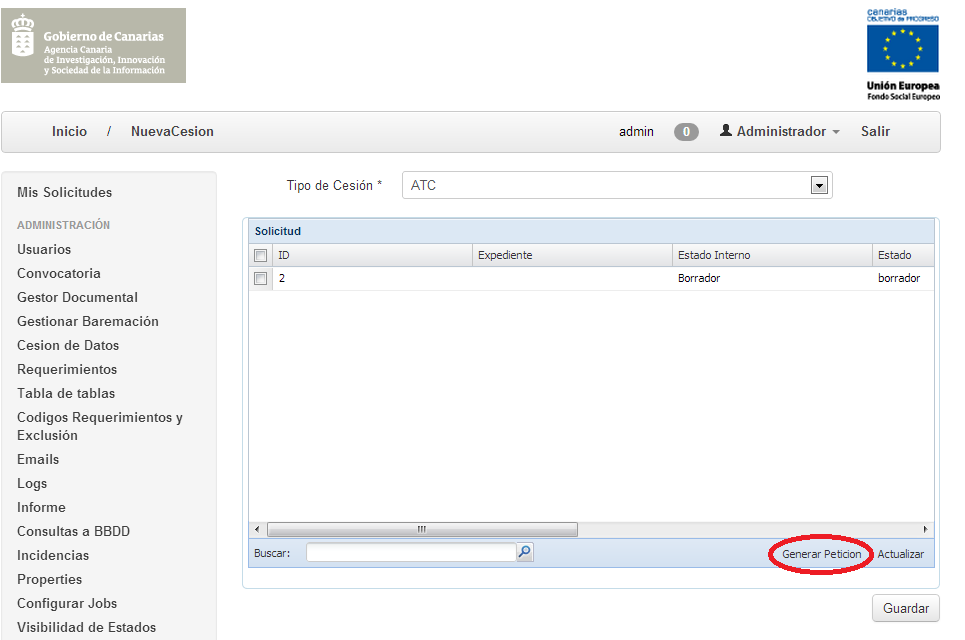
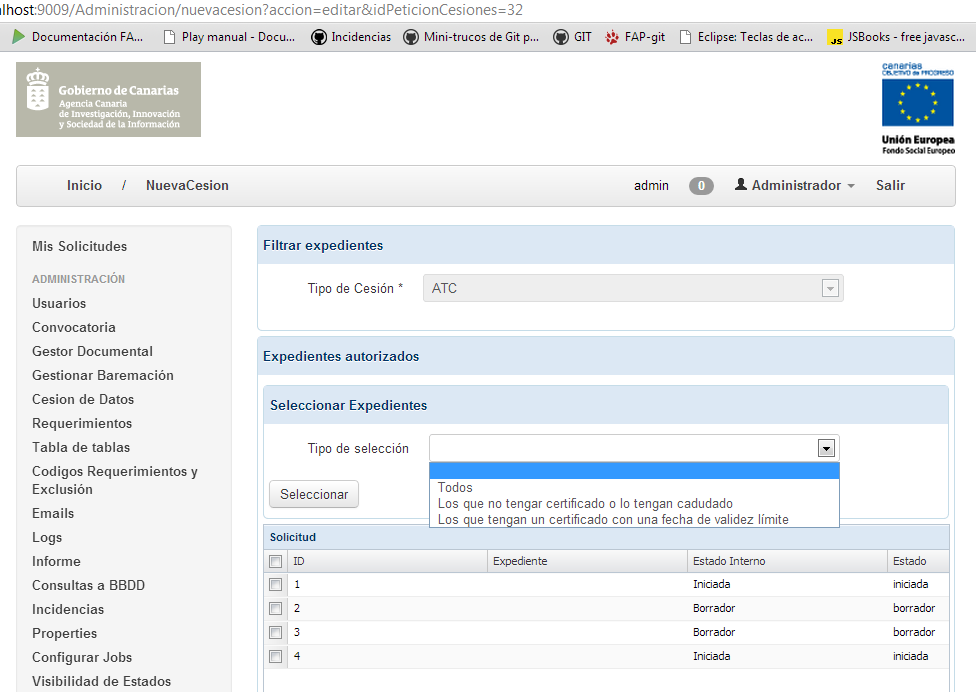
Añadiendi filtro de solicitudes

diff --git a/apps/test/public/javascripts/underscore-min.js b/apps/test/public/javascripts/underscore-min.js
@@ -1,0 +1,5 @@
+//     Underscore.js 1.4.1
+//     http://underscorejs.org
+//     (c) 2009-2012 Jeremy Ashkenas, DocumentCloud Inc.
+//     Underscore may be freely distributed under the MIT license.
+(function(){var e=this,t=e._,n={},r=Array.prototype,i=Object.prototype,s=Function.prototype,o=r.push,u=r.slice,a=r.concat,f=r.unshift,l=i.toString,c=i.hasOwnProperty,h=r.forEach,p=r.map,d=r.reduce,v=r.reduceRight,m=r.filter,g=r.every,y=r.some,b=r.indexOf,w=r.lastIndexOf,E=Array.isArray,S=Object.keys,x=s.bind,T=function(e){if(e instanceof T)return e;if(!(this instanceof T))return new T(e);this._wrapped=e};typeof exports!="undefined"?(typeof module!="undefined"&&module.exports&&(exports=module.exports=T),exports._=T):e._=T,T.VERSION="1.4.1";var N=T.each=T.forEach=function(e,t,r){if(h&&e.forEach===h)e.forEach(t,r);else if(e.length===+e.length){for(var i=0,s=e.length;i<s;i++)if(t.call(r,e[i],i,e)===n)return}else for(var o in e)if(T.has(e,o)&&t.call(r,e[o],o,e)===n)return};T.map=T.collect=function(e,t,n){var r=[];return p&&e.map===p?e.map(t,n):(N(e,function(e,i,s){r[r.length]=t.call(n,e,i,s)}),r)},T.reduce=T.foldl=T.inject=function(e,t,n,r){var i=arguments.length>2;if(d&&e.reduce===d)return r&&(t=T.bind(t,r)),i?e.reduce(t,n):e.reduce(t);N(e,function(e,s,o){i?n=t.call(r,n,e,s,o):(n=e,i=!0)});if(!i)throw new TypeError("Reduce of empty array with no initial value");return n},T.reduceRight=T.foldr=function(e,t,n,r){var i=arguments.length>2;if(v&&e.reduceRight===v)return r&&(t=T.bind(t,r)),arguments.length>2?e.reduceRight(t,n):e.reduceRight(t);var s=e.length;if(s!==+s){var o=T.keys(e);s=o.length}N(e,function(u,a,f){a=o?o[--s]:--s,i?n=t.call(r,n,e[a],a,f):(n=e[a],i=!0)});if(!i)throw new TypeError("Reduce of empty array with no initial value");return n},T.find=T.detect=function(e,t,n){var r;return C(e,function(e,i,s){if(t.call(n,e,i,s))return r=e,!0}),r},T.filter=T.select=function(e,t,n){var r=[];return m&&e.filter===m?e.filter(t,n):(N(e,function(e,i,s){t.call(n,e,i,s)&&(r[r.length]=e)}),r)},T.reject=function(e,t,n){var r=[];return N(e,function(e,i,s){t.call(n,e,i,s)||(r[r.length]=e)}),r},T.every=T.all=function(e,t,r){t||(t=T.identity);var i=!0;return g&&e.every===g?e.every(t,r):(N(e,function(e,s,o){if(!(i=i&&t.call(r,e,s,o)))return n}),!!i)};var C=T.some=T.any=function(e,t,r){t||(t=T.identity);var i=!1;return y&&e.some===y?e.some(t,r):(N(e,function(e,s,o){if(i||(i=t.call(r,e,s,o)))return n}),!!i)};T.contains=T.include=function(e,t){var n=!1;return b&&e.indexOf===b?e.indexOf(t)!=-1:(n=C(e,function(e){return e===t}),n)},T.invoke=function(e,t){var n=u.call(arguments,2);return T.map(e,function(e){return(T.isFunction(t)?t:e[t]).apply(e,n)})},T.pluck=function(e,t){return T.map(e,function(e){return e[t]})},T.where=function(e,t){return T.isEmpty(t)?[]:T.filter(e,function(e){for(var n in t)if(t[n]!==e[n])return!1;return!0})},T.max=function(e,t,n){if(!t&&T.isArray(e)&&e[0]===+e[0]&&e.length<65535)return Math.max.apply(Math,e);if(!t&&T.isEmpty(e))return-Infinity;var r={computed:-Infinity};return N(e,function(e,i,s){var o=t?t.call(n,e,i,s):e;o>=r.computed&&(r={value:e,computed:o})}),r.value},T.min=function(e,t,n){if(!t&&T.isArray(e)&&e[0]===+e[0]&&e.length<65535)return Math.min.apply(Math,e);if(!t&&T.isEmpty(e))return Infinity;var r={computed:Infinity};return N(e,function(e,i,s){var o=t?t.call(n,e,i,s):e;o<r.computed&&(r={value:e,computed:o})}),r.value},T.shuffle=function(e){var t,n=0,r=[];return N(e,function(e){t=T.random(n++),r[n-1]=r[t],r[t]=e}),r};var k=function(e){return T.isFunction(e)?e:function(t){return t[e]}};T.sortBy=function(e,t,n){var r=k(t);return T.pluck(T.map(e,function(e,t,i){return{value:e,index:t,criteria:r.call(n,e,t,i)}}).sort(function(e,t){var n=e.criteria,r=t.criteria;if(n!==r){if(n>r||n===void 0)return 1;if(n<r||r===void 0)return-1}return e.index<t.index?-1:1}),"value")};var L=function(e,t,n,r){var i={},s=k(t);return N(e,function(t,o){var u=s.call(n,t,o,e);r(i,u,t)}),i};T.groupBy=function(e,t,n){return L(e,t,n,function(e,t,n){(T.has(e,t)?e[t]:e[t]=[]).push(n)})},T.countBy=function(e,t,n){return L(e,t,n,function(e,t,n){T.has(e,t)||(e[t]=0),e[t]++})},T.sortedIndex=function(e,t,n,r){n=n==null?T.identity:k(n);var i=n.call(r,t),s=0,o=e.length;while(s<o){var u=s+o>>>1;n.call(r,e[u])<i?s=u+1:o=u}return s},T.toArray=function(e){return e?e.length===+e.length?u.call(e):T.values(e):[]},T.size=function(e){return e.length===+e.length?e.length:T.keys(e).length},T.first=T.head=T.take=function(e,t,n){return t!=null&&!n?u.call(e,0,t):e[0]},T.initial=function(e,t,n){return u.call(e,0,e.length-(t==null||n?1:t))},T.last=function(e,t,n){return t!=null&&!n?u.call(e,Math.max(e.length-t,0)):e[e.length-1]},T.rest=T.tail=T.drop=function(e,t,n){return u.call(e,t==null||n?1:t)},T.compact=function(e){return T.filter(e,function(e){return!!e})};var A=function(e,t,n){return N(e,function(e){T.isArray(e)?t?o.apply(n,e):A(e,t,n):n.push(e)}),n};T.flatten=function(e,t){return A(e,t,[])},T.without=function(e){return T.difference(e,u.call(arguments,1))},T.uniq=T.unique=function(e,t,n,r){var i=n?T.map(e,n,r):e,s=[],o=[];return N(i,function(n,r){if(t?!r||o[o.length-1]!==n:!T.contains(o,n))o.push(n),s.push(e[r])}),s},T.union=function(){return T.uniq(a.apply(r,arguments))},T.intersection=function(e){var t=u.call(arguments,1);return T.filter(T.uniq(e),function(e){return T.every(t,function(t){return T.indexOf(t,e)>=0})})},T.difference=function(e){var t=a.apply(r,u.call(arguments,1));return T.filter(e,function(e){return!T.contains(t,e)})},T.zip=function(){var e=u.call(arguments),t=T.max(T.pluck(e,"length")),n=new Array(t);for(var r=0;r<t;r++)n[r]=T.pluck(e,""+r);return n},T.object=function(e,t){var n={};for(var r=0,i=e.length;r<i;r++)t?n[e[r]]=t[r]:n[e[r][0]]=e[r][1];return n},T.indexOf=function(e,t,n){var r=0,i=e.length;if(n){if(typeof n!="number")return r=T.sortedIndex(e,t),e[r]===t?r:-1;r=n<0?Math.max(0,i+n):n}if(b&&e.indexOf===b)return e.indexOf(t,n);for(;r<i;r++)if(e[r]===t)return r;return-1},T.lastIndexOf=function(e,t,n){var r=n!=null;if(w&&e.lastIndexOf===w)return r?e.lastIndexOf(t,n):e.lastIndexOf(t);var i=r?n:e.length;while(i--)if(e[i]===t)return i;return-1},T.range=function(e,t,n){arguments.length<=1&&(t=e||0,e=0),n=arguments[2]||1;var r=Math.max(Math.ceil((t-e)/n),0),i=0,s=new Array(r);while(i<r)s[i++]=e,e+=n;return s};var O=function(){};T.bind=function(t,n){var r,i;if(t.bind===x&&x)return x.apply(t,u.call(arguments,1));if(!T.isFunction(t))throw new TypeError;return i=u.call(arguments,2),r=function(){if(this instanceof r){O.prototype=t.prototype;var e=new O,s=t.apply(e,i.concat(u.call(arguments)));return Object(s)===s?s:e}return t.apply(n,i.concat(u.call(arguments)))}},T.bindAll=function(e){var t=u.call(arguments,1);return t.length==0&&(t=T.functions(e)),N(t,function(t){e[t]=T.bind(e[t],e)}),e},T.memoize=function(e,t){var n={};return t||(t=T.identity),function(){var r=t.apply(this,arguments);return T.has(n,r)?n[r]:n[r]=e.apply(this,arguments)}},T.delay=function(e,t){var n=u.call(arguments,2);return setTimeout(function(){return e.apply(null,n)},t)},T.defer=function(e){return T.delay.apply(T,[e,1].concat(u.call(arguments,1)))},T.throttle=function(e,t){var n,r,i,s,o,u,a=T.debounce(function(){o=s=!1},t);return function(){n=this,r=arguments;var f=function(){i=null,o&&(u=e.apply(n,r)),a()};return i||(i=setTimeout(f,t)),s?o=!0:(s=!0,u=e.apply(n,r)),a(),u}},T.debounce=function(e,t,n){var r,i;return function(){var s=this,o=arguments,u=function(){r=null,n||(i=e.apply(s,o))},a=n&&!r;return clearTimeout(r),r=setTimeout(u,t),a&&(i=e.apply(s,o)),i}},T.once=function(e){var t=!1,n;return function(){return t?n:(t=!0,n=e.apply(this,arguments),e=null,n)}},T.wrap=function(e,t){return function(){var n=[e];return o.apply(n,arguments),t.apply(this,n)}},T.compose=function(){var e=arguments;return function(){var t=arguments;for(var n=e.length-1;n>=0;n--)t=[e[n].apply(this,t)];return t[0]}},T.after=function(e,t){return e<=0?t():function(){if(--e<1)return t.apply(this,arguments)}},T.keys=S||function(e){if(e!==Object(e))throw new TypeError("Invalid object");var t=[];for(var n in e)T.has(e,n)&&(t[t.length]=n);return t},T.values=function(e){var t=[];for(var n in e)T.has(e,n)&&t.push(e[n]);return t},T.pairs=function(e){var t=[];for(var n in e)T.has(e,n)&&t.push([n,e[n]]);return t},T.invert=function(e){var t={};for(var n in e)T.has(e,n)&&(t[e[n]]=n);return t},T.functions=T.methods=function(e){var t=[];for(var n in e)T.isFunction(e[n])&&t.push(n);return t.sort()},T.extend=function(e){return N(u.call(arguments,1),function(t){for(var n in t)e[n]=t[n]}),e},T.pick=function(e){var t={},n=a.apply(r,u.call(arguments,1));return N(n,function(n){n in e&&(t[n]=e[n])}),t},T.omit=function(e){var t={},n=a.apply(r,u.call(arguments,1));for(var i in e)T.contains(n,i)||(t[i]=e[i]);return t},T.defaults=function(e){return N(u.call(arguments,1),function(t){for(var n in t)e[n]==null&&(e[n]=t[n])}),e},T.clone=function(e){return T.isObject(e)?T.isArray(e)?e.slice():T.extend({},e):e},T.tap=function(e,t){return t(e),e};var M=function(e,t,n,r){if(e===t)return e!==0||1/e==1/t;if(e==null||t==null)return e===t;e instanceof T&&(e=e._wrapped),t instanceof T&&(t=t._wrapped);var i=l.call(e);if(i!=l.call(t))return!1;switch(i){case"[object String]":return e==String(t);case"[object Number]":return e!=+e?t!=+t:e==0?1/e==1/t:e==+t;case"[object Date]":case"[object Boolean]":return+e==+t;case"[object RegExp]":return e.source==t.source&&e.global==t.global&&e.multiline==t.multiline&&e.ignoreCase==t.ignoreCase}if(typeof e!="object"||typeof t!="object")return!1;var s=n.length;while(s--)if(n[s]==e)return r[s]==t;n.push(e),r.push(t);var o=0,u=!0;if(i=="[object Array]"){o=e.length,u=o==t.length;if(u)while(o--)if(!(u=M(e[o],t[o],n,r)))break}else{var a=e.constructor,f=t.constructor;if(a!==f&&!(T.isFunction(a)&&a instanceof a&&T.isFunction(f)&&f instanceof f))return!1;for(var c in e)if(T.has(e,c)){o++;if(!(u=T.has(t,c)&&M(e[c],t[c],n,r)))break}if(u){for(c in t)if(T.has(t,c)&&!(o--))break;u=!o}}return n.pop(),r.pop(),u};T.isEqual=function(e,t){return M(e,t,[],[])},T.isEmpty=function(e){if(e==null)return!0;if(T.isArray(e)||T.isString(e))return e.length===0;for(var t in e)if(T.has(e,t))return!1;return!0},T.isElement=function(e){return!!e&&e.nodeType===1},T.isArray=E||function(e){return l.call(e)=="[object Array]"},T.isObject=function(e){return e===Object(e)},N(["Arguments","Function","String","Number","Date","RegExp"],function(e){T["is"+e]=function(t){return l.call(t)=="[object "+e+"]"}}),T.isArguments(arguments)||(T.isArguments=function(e){return!!e&&!!T.has(e,"callee")}),typeof /./!="function"&&(T.isFunction=function(e){return typeof e=="function"}),T.isFinite=function(e){return T.isNumber(e)&&isFinite(e)},T.isNaN=function(e){return T.isNumber(e)&&e!=+e},T.isBoolean=function(e){return e===!0||e===!1||l.call(e)=="[object Boolean]"},T.isNull=function(e){return e===null},T.isUndefined=function(e){return e===void 0},T.has=function(e,t){return c.call(e,t)},T.noConflict=function(){return e._=t,this},T.identity=function(e){return e},T.times=function(e,t,n){for(var r=0;r<e;r++)t.call(n,r)},T.random=function(e,t){return t==null&&(t=e,e=0),e+(0|Math.random()*(t-e+1))};var _={escape:{"&":"&amp;","<":"&lt;",">":"&gt;",'"':"&quot;","'":"&#x27;","/":"&#x2F;"}};_.unescape=T.invert(_.escape);var D={escape:new RegExp("["+T.keys(_.escape).join("")+"]","g"),unescape:new RegExp("("+T.keys(_.unescape).join("|")+")","g")};T.each(["escape","unescape"],function(e){T[e]=function(t){return t==null?"":(""+t).replace(D[e],function(t){return _[e][t]})}}),T.result=function(e,t){if(e==null)return null;var n=e[t];return T.isFunction(n)?n.call(e):n},T.mixin=function(e){N(T.functions(e),function(t){var n=T[t]=e[t];T.prototype[t]=function(){var e=[this._wrapped];return o.apply(e,arguments),F.call(this,n.apply(T,e))}})};var P=0;T.uniqueId=function(e){var t=P++;return e?e+t:t},T.templateSettings={evaluate:/<%([\s\S]+?)%>/g,interpolate:/<%=([\s\S]+?)%>/g,escape:/<%-([\s\S]+?)%>/g};var H=/(.)^/,B={"'":"'","\\":"\\","\r":"r","\n":"n","	":"t","\u2028":"u2028","\u2029":"u2029"},j=/\\|'|\r|\n|\t|\u2028|\u2029/g;T.template=function(e,t,n){n=T.defaults({},n,T.templateSettings);var r=new RegExp([(n.escape||H).source,(n.interpolate||H).source,(n.evaluate||H).source].join("|")+"|$","g"),i=0,s="__p+='";e.replace(r,function(t,n,r,o,u){s+=e.slice(i,u).replace(j,function(e){return"\\"+B[e]}),s+=n?"'+\n((__t=("+n+"))==null?'':_.escape(__t))+\n'":r?"'+\n((__t=("+r+"))==null?'':__t)+\n'":o?"';\n"+o+"\n__p+='":"",i=u+t.length}),s+="';\n",n.variable||(s="with(obj||{}){\n"+s+"}\n"),s="var __t,__p='',__j=Array.prototype.join,print=function(){__p+=__j.call(arguments,'');};\n"+s+"return __p;\n";try{var o=new Function(n.variable||"obj","_",s)}catch(u){throw u.source=s,u}if(t)return o(t,T);var a=function(e){return o.call(this,e,T)};return a.source="function("+(n.variable||"obj")+"){\n"+s+"}",a},T.chain=function(e){return T(e).chain()};var F=function(e){return this._chain?T(e).chain():e};T.mixin(T),N(["pop","push","reverse","shift","sort","splice","unshift"],function(e){var t=r[e];T.prototype[e]=function(){var n=this._wrapped;return t.apply(n,arguments),(e=="shift"||e=="splice")&&n.length===0&&delete n[0],F.call(this,n)}}),N(["concat","join","slice"],function(e){var t=r[e];T.prototype[e]=function(){return F.call(this,t.apply(this._wrapped,arguments))}}),T.extend(T.prototype,{chain:function(){return this._chain=!0,this},value:function(){return this._wrapped}})}).call(this);

diff --git a/fap/app/views/fap/NuevaCesion/NuevaCesion.html b/fap/app/views/fap/NuevaCesion/NuevaCesion.html
@@ -16,14 +16,29 @@
      urlEditar:play.mvc.Router.reverse('NuevaCesionController.editar' , ['idPeticionCesiones':peticionCesiones?.id]),
      id: peticionCesiones?.id
 }
-			#{fap.grupo borde:false, permiso:'permisoTipoElegido'}
+
+			#{fap.grupo borde:true, permiso:'permisoTipoElegido', titulo:'Filtrar expedientes'}
 				
 			#{fap.combo campo:'peticionCesiones.tipo', id:'cmbTipo', requerido:true, titulo:'Tipo de Cesión' /}		
 		
 			#{/fap.grupo}
-			
-			#{fap.grupo permiso:'permisoTipo'}
+		
+			#{fap.grupo permiso:'permisoTipo', titulo:'Expedientes autorizados'}
 				
+			#{fap.grupo borde:true, titulo:'Seleccionar Expedientes'}
+				
+			#{fap.combo campo:'peticionCesiones.seleccion', id:'cmbSeleccion', titulo:'Tipo de selección' /}		
+		
+			#{fap.grupo borde:false, siCombo:'cmbSeleccion', siComboValue:['certificadoFecha']}
+				
+			#{fap.fecha campo:'peticionCesiones.fechaCorte', titulo:'Fecha límite' /}		
+		
+			#{/fap.grupo}
+		
+			#{fap.enlace codigojs:'seleccion();', estilo:'btn', id:'seleccion', titulo:'Seleccionar' /}
+			
+			#{/fap.grupo}
+
 #{fap.tabla 
      campo:'Solicitud', 
      id:'tblSolicitudes', 
@@ -48,10 +63,56 @@
 	#{fap.columna alignPosition:'left', ancho:200, cabecera:'ID Solicitante', campo:'solicitante.id' /}
 		
 	#{fap.columna alignPosition:'left', ancho:200, cabecera:'Nombre Solicitante', campo:'solicitante.nombreCompleto' /}
-		
+				
 #{/fap.tabla}
+
 
 			#{/fap.grupo}
 		
 #{/fap.pagina}
+
+%{
+/*Url de la funcion del controlador que necesito llamar*/
+	urlConvertDataFunction = play.mvc.Router.reverse('NuevaCesionController.filtroCombo')
+	idPeticion = peticionCesiones?.id;
+	
+%}
+
+<script>
+
+function seleccion(){
+	var urlConvertData = "${urlConvertDataFunction}";
+	var ids = "${idPeticion}";
+	var fecha = "";
+	if (document.getElementById("peticionCesiones_fechaCorte") != null)
+		fecha = document.getElementById("peticionCesiones_fechaCorte").value;
+		$.ajax({
+	  		type: "POST",
+	  		url: urlConvertData,
+	  		data: {idPeticionCesiones: ids,
+	  		combo: document.getElementById("cmbSeleccion").value,
+	  		fecha: fecha}
+		}).done(function(msg) {
+			if(msg == "[]")
+				alert("No hay elementos que cumplan los criterios de búsqueda");
+			else
+  			  marcarLista(msg);
+		});
+}
+
+function marcarLista(msg){
+	smtblSolicitudes.deselectAll();
+	var all = document.querySelectorAll(".x-grid-row");
+
+	if (all != null){
+  		for (i = 0; i < all.length; i++){
+			if (_.contains(msg, i+"")){	
+				smtblSolicitudes.select(i, true, true);
+			}
+		}
+	}
+
+}
+
+</script>  
 		

diff --git a/fap/app/views/tags/fap/enlace.html b/fap/app/views/tags/fap/enlace.html
@@ -7,13 +7,14 @@
 	_url	- Url del enlace
 	_action - Accion de un controlador  
 	_destino- Indica al enlace donde tiene que abrirse (campo target en html)
+	_codigojs - Si procede, se indicará el codigo java script que deberá ejecutarse al pulsar el enlace
 	 
 }*
 
 %{ 
 	def id = _id ?: play.libs.Codec.UUID()
 	def label = _titulo ?: _pagina
-	
+	def codigojs;
 	def url;
 	if(_url != null){
 		url = _url;
@@ -29,17 +30,32 @@
        else if ((play.mvc.Controller.request != null) && (play.mvc.Controller.request.cookies != null) && (play.mvc.Controller.request.cookies.containsKey(key)))
        		url = play.mvc.Controller.request.cookies.get(key).value;
 	}
+	else if (_codigojs){
+		codigojs = _codigojs;
+	}
 	else{
-		throw new play.exceptions.TagInternalException("el atributo url y accion no pueden ser vacios");
+		throw new play.exceptions.TagInternalException("el atributo url, accion y codigojs no pueden ser vacios");
 	}
 	if (_popup != null)
 		url = "javascript:popup_open('${_popup}_popup', '${url}')";
+
 	
 	def target = _target
 	def stackDisabled = null; // Enlaces siempre editables! tags.TagMapStack.top("editable")
 	def disabled = stackDisabled == null || stackDisabled? '' : 'disabled="disabled"'
 	def estilo = _estilo;
+	
 }%
+#{if codigojs != null}
+	#{if _noRow}
+	<a id="${id}" onclick="${codigojs}" ${disabled} #{if estilo}class="${estilo}"#{/if}>${label}</a>
+	#{/if}
+	#{else}
+		<div class="form-row">
+			<a id="${id}" onclick="${codigojs}" ${disabled} #{if estilo}class="${estilo}"#{/if}>${label}</a>
+		</div>
+	#{/else}
+#{/if}
 
 #{if url != null}
 	#{if _noRow}

diff --git a/fap/app/views/tags/fap/tabla.html b/fap/app/views/tags/fap/tabla.html
@@ -240,7 +240,7 @@
 			}
 
 			#{if seleccionable}
-				var sm = Ext.create('Ext.selection.CheckboxModel');
+				sm${id} = Ext.create('Ext.selection.CheckboxModel');
 			#{/if}	
 		
 			function loadMessages${id}(data){
@@ -558,8 +558,10 @@
 		    var boton_select = new Ext.Button({
 		    	text: '${seleccionable}',
 		    	handler : function(){
-		    		var selected = sm.getSelection();
-
+		    		var selected = sm${id}.getSelection();
+					%{
+					System.out.println("Selected: "+selected)
+					%}
 		    		#{if submitPage}
 		    			var urlSubmitPage = "${urlSeleccionable}";
 		    			var j = 1;
@@ -608,7 +610,7 @@
 			 	hidden:true,
 			 	#{/if}
 				#{if seleccionable}
-				selModel: sm,
+				selModel: sm${id},
 	            #{/if}
 				columns : #{verbatim}${columnas}#{/verbatim},
 				renderTo: '${id}',

diff --git a/fap/app/views/fap/template.html b/fap/app/views/fap/template.html
@@ -38,7 +38,7 @@
         #{script src:"bootstrap/bootstrap-datepicker.js" /}
         #{script src:"bootstrap/bootstrap-button.js" /}
         #{script src:"bootstrap/bootstrap-collapse.js" /}
-        
+        #{script 'underscore-min.js' /}
         
         #{script 'ext/ext-all.js' /}
         #{script 'ext/form/SearchFieldFilter.js' /}

diff --git a/fap/app/controllers/NuevaCesionController.java b/fap/app/controllers/NuevaCesionController.java
@@ -15,16 +15,19 @@ import com.jamonapi.utils.FileUtils;
 
 import play.libs.IO;
 import play.mvc.Util;
+import play.utils.PThreadFactory;
 import properties.FapProperties;
 import reports.Report;
 import utils.AEATUtils;
 import utils.ATCUtils;
 import utils.INSSUtils;
 import messages.Messages;
+import models.Cesiones;
 import models.PeticionCesiones;
 import models.SolicitudGenerica;
 import controllers.gen.NuevaCesionControllerGen;
 import enumerado.fap.gen.EstadosPeticionEnum;
+import enumerado.fap.gen.SeleccionExpedientesCesionEnum;
 
 
 public class NuevaCesionController extends NuevaCesionControllerGen {
@@ -96,17 +99,21 @@ public class NuevaCesionController extends NuevaCesionControllerGen {
 	
 	//Necesito saber el tipo para filtrar
 	public static void tablatblSolicitudes(Long idPeticionCesiones) {
-		//Recuperar la Peticion para saber el tipo
-		PeticionCesiones pt = getPeticionCesiones(idPeticionCesiones); 
-		java.util.List<SolicitudGenerica> rows = SolicitudGenerica.find("select solicitud from SolicitudGenerica solicitud").fetch();
-		
 		Map<String, Long> ids = (Map<String, Long>) tags.TagMapStack.top("idParams");
+		PeticionCesiones pt = getPeticionCesiones(idPeticionCesiones); 
+		List<SolicitudGenerica> rowsFiltered = filtroSolicitudes(idPeticionCesiones);
+		tables.TableRenderResponse<SolicitudGenerica> response = new tables.TableRenderResponse<SolicitudGenerica>(rowsFiltered, false, false, false, "", "", "", getAccion(), ids);
+		renderJSON(response.toJSON("id", "expedienteAed.idAed", "estadoValue", "estado", "estadoUsuario", "solicitante.id", "solicitante.nombreCompleto"));
+	}
+	
+
+	public static List<SolicitudGenerica> filtroSolicitudes(Long idPeticionCesiones){
+		//Filtro dependiendo del valor del combo
+		PeticionCesiones pt = getPeticionCesiones(idPeticionCesiones);
+
+		java.util.List<SolicitudGenerica> rows = SolicitudGenerica.find("select solicitud from SolicitudGenerica solicitud").fetch();
 		List<SolicitudGenerica> rowsFiltered = new ArrayList<SolicitudGenerica>();		
-		
-		//Unificación de permisos: Desde que se autoriza en una solicitud, se autoriza en todas las del usuario
-		//unificarPermisos();
-		
-		//Filtro de solicitudes
+		//Filtro de solicitudes (tipo y filtro de combo)
 		for (SolicitudGenerica solGen : rows) {
 			if((solGen.cesion.autorizacionCesion.atc != null) && (solGen.cesion.autorizacionCesion.atc) && (pt.tipo.equals("atc"))){
 				rowsFiltered.add(solGen);
@@ -121,8 +128,73 @@ public class NuevaCesionController extends NuevaCesionControllerGen {
 				rowsFiltered.add(solGen);
 			}
 		}
-		tables.TableRenderResponse<SolicitudGenerica> response = new tables.TableRenderResponse<SolicitudGenerica>(rowsFiltered, false, false, false, "", "", "", getAccion(), ids);
-		renderJSON(response.toJSON("id", "expedienteAed.idAed", "estadoValue", "estado", "estadoUsuario", "solicitante.id", "solicitante.nombreCompleto"));
+		
+		return rowsFiltered;
+	}
+	
+	//Llamado desde ajax
+	public static List<Long> filtroCombo (Long idPeticionCesiones, String combo, String fecha){
+		List<SolicitudGenerica> rows = filtroSolicitudes(idPeticionCesiones);
+		List<Long> id = new ArrayList<Long>();
+		if (combo.equals(SeleccionExpedientesCesionEnum.todos.name())){ 
+			for (Long i = (long)0; i < rows.size(); i++) {
+			//for (SolicitudGenerica sol : rows) {
+				id.add(i);
+			}
+		} else {
+			PeticionCesiones pt = getPeticionCesiones(idPeticionCesiones); 
+			Long index = (long) 0;
+			for (SolicitudGenerica sol : rows) {
+				if (combo.equals(SeleccionExpedientesCesionEnum.certificadoFecha.name())){
+					java.util.List<Cesiones> cesiones = Cesiones.find("select cesiones from SolicitudGenerica solicitud join solicitud.cesion.cesiones cesiones where solicitud.id=?", sol.id).fetch();
+					//Si tengo certificados de ese tipo -> fecha 
+					if (filtroFecha(pt, cesiones, fecha)){
+						id.add(index);
+					}
+				} else if (combo.equals(SeleccionExpedientesCesionEnum.noCertificado.name())) { //Sin certificado o caducado
+					java.util.List<Cesiones> cesiones = Cesiones.find("select cesiones from SolicitudGenerica solicitud join solicitud.cesion.cesiones cesiones where solicitud.id=?", sol.id).fetch();
+					//SI cesiones tiene algo -> Hay certificado no se de q -> comprobar tipo y si fecha pasada
+					if (filtroNoCertificado (pt, cesiones)){ //Vacia o caducada -> se muestra
+						id.add(index);
+					}
+				}
+				index++;
+			}
+		}
+		return id;
+	}
+	
+	public static boolean filtroNoCertificado (PeticionCesiones pt, List<Cesiones> cesiones){
+		Cesiones cesion = null;
+		for (Cesiones c : cesiones) {
+			if ((c.fechaValidez.isAfterNow()) && (pt.tipo.equals(c.tipo))) //Fecha de validez posterior a hoy
+				cesion = c; //Si es valida la igualo
+		}
+		if (cesion != null)
+			return false; //No caducada
+		else //Caducada
+			return true;
+	}
+	
+	public static boolean filtroFecha (PeticionCesiones pt, List<Cesiones> cesiones, String fecha){
+		//Si es anterior a fecha -> Devuelve true -> lo añado
+		Cesiones cesion = null;
+		for (Cesiones c : cesiones) {
+			if ((c.fechaValidez.isBefore(obtenerFecha(fecha))) && (pt.tipo.equals(c.tipo))) //Fecha de validez posterior a hoy
+				cesion = c; //Si es valida la igualo
+		}
+		if (cesion != null)
+			return true; //La fecha es anterior
+		else //Caducada
+			return false; //La fecha NO es anterior
+	}
+	
+	public static DateTime obtenerFecha(String fecha){
+		int dia = Integer.parseInt(fecha.substring(0, 2));
+		int mes = Integer.parseInt(fecha.substring(3, 5));
+		int anio = Integer.parseInt(fecha.substring(6, 10));
+		DateTime fechaGeneracion = new DateTime(anio, mes, dia, 0, 0);
+		return fechaGeneracion;
 	}
 	
 	/*@Util

diff --git a/fap/app/controllers/ListadoCesionesController.java b/fap/app/controllers/ListadoCesionesController.java
@@ -50,7 +50,7 @@ public class ListadoCesionesController extends ListadoCesionesControllerGen {
 		Cesiones cesionINSS = null, cesionAEAT = null, cesionATC = null;
 		for (Cesiones cesiones : rows) {
 			if (cesiones.tipo.equals(ListaCesionesEnum.inssR001.name())&& ((cesionINSS == null)||(cesiones.fechaPeticion.isAfter(cesionINSS.fechaPeticion)))){
-					cesionINSS = cesiones;
+				cesionINSS = cesiones;
 			}
 			if (cesiones.tipo.equals(ListaCesionesEnum.aeat.name())&& ((cesionAEAT == null)||(cesiones.fechaPeticion.isAfter(cesionAEAT.fechaPeticion)))){
 				cesionAEAT = cesiones;

diff --git a/fap/app/controllers/popups/PopupListadoCesionesController.java b/fap/app/controllers/popups/PopupListadoCesionesController.java
@@ -43,6 +43,7 @@ public class PopupListadoCesionesController extends PopupListadoCesionesControll
 			CustomValidation.validValueFromTable("cesiones.estado", cesiones.estado);
 			dbCesiones.estado = cesiones.estado;
 			CustomValidation.valid("cesiones.documento", cesiones.documento);
+			CustomValidation.required("cesiones.documento.uri", cesiones.documento.uri);
 			CustomValidation.validValueFromTable("cesiones.documento.uri", cesiones.documento.uri);
 			dbCesiones.documento.uri = cesiones.documento.uri;
 			dbCesiones.documento = cesiones.documento;

diff --git a/fap/app/models/PeticionCesiones.java b/fap/app/models/PeticionCesiones.java
@@ -45,6 +45,13 @@ public class PeticionCesiones extends FapModel {
 	@ValueFromTable("estadosPeticion")
 	public String estado;
 
+	@ValueFromTable("seleccionExpedientesCesion")
+	public String seleccion;
+
+	@org.hibernate.annotations.Columns(columns = { @Column(name = "fechaCorte"), @Column(name = "fechaCorteTZ") })
+	@org.hibernate.annotations.Type(type = "org.jadira.usertype.dateandtime.joda.PersistentDateTimeWithZone")
+	public DateTime fechaCorte;
+
 	public PeticionCesiones() {
 		init();
 	}
